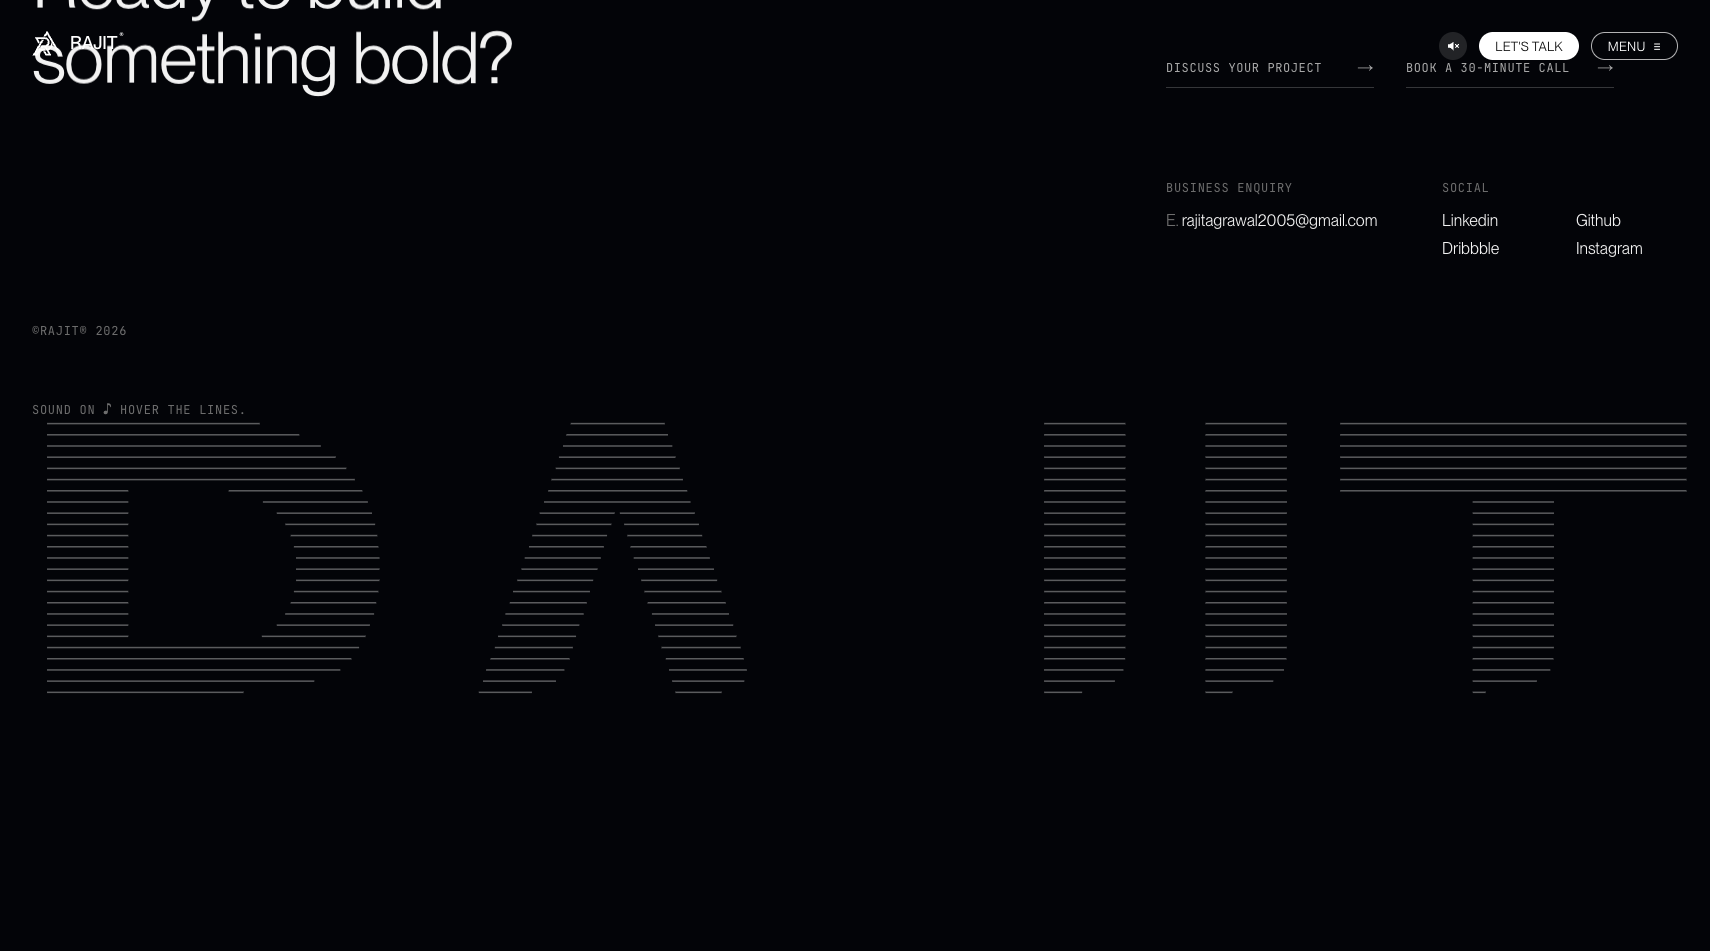
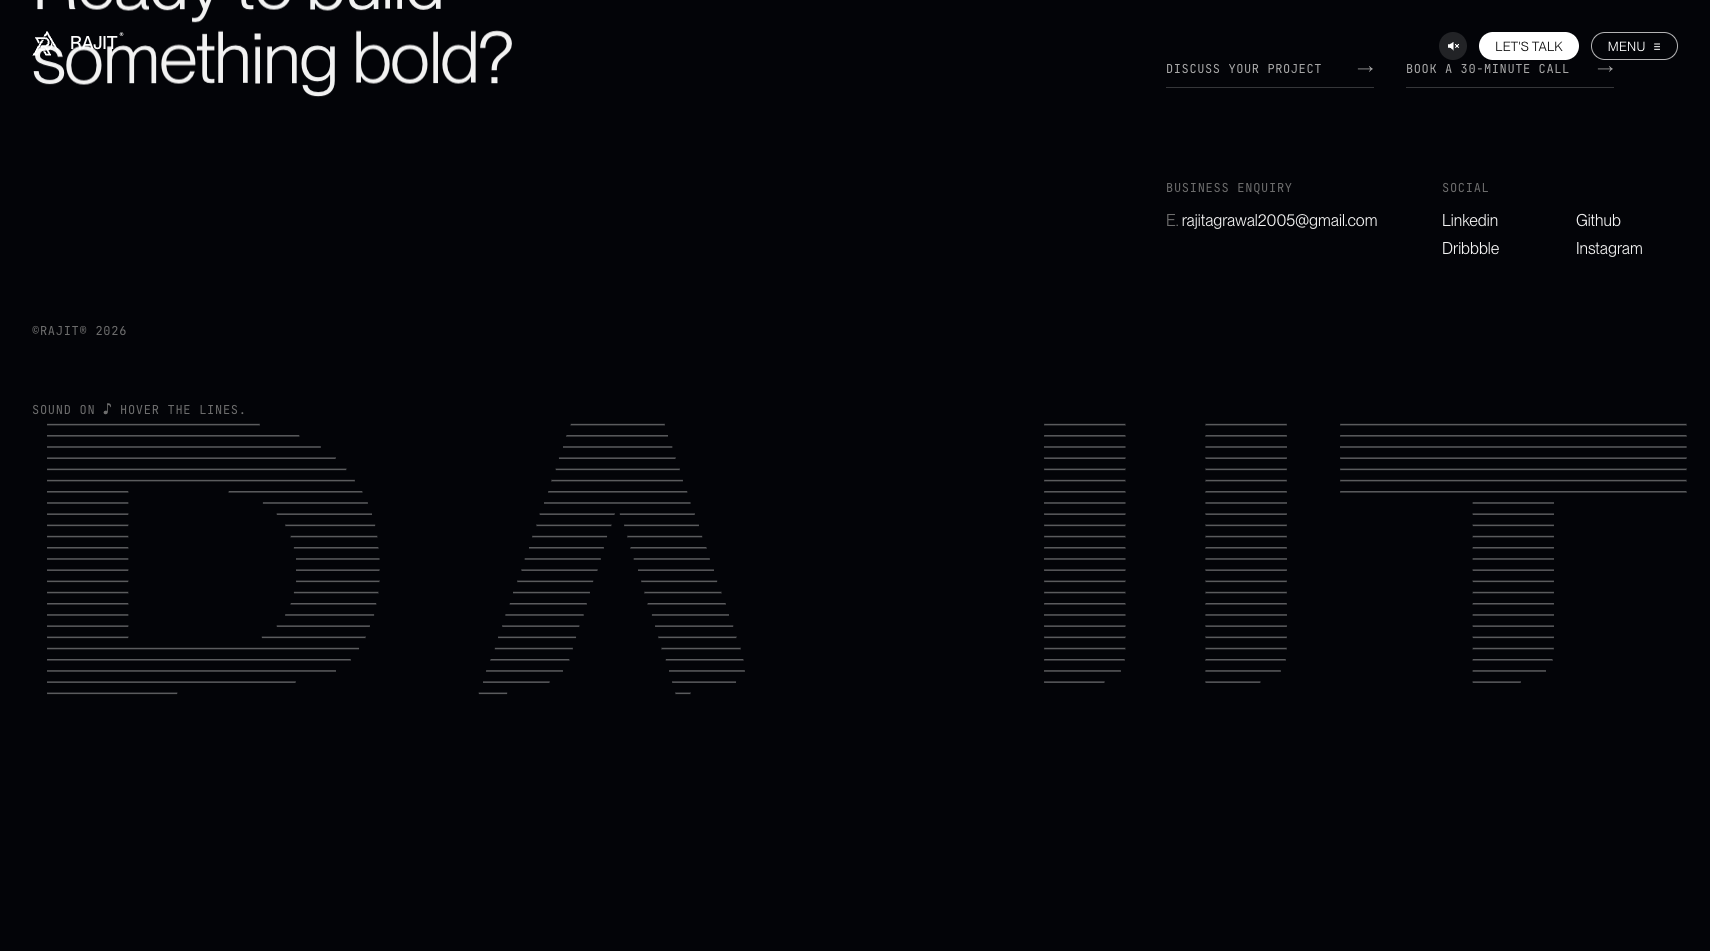
marquee: give the band a full viewport so the words cross the mark
PAGES §03 measures the label at y 125, the band centred at y 465 and the
caption at y 785 -- geometry that only lands inside a 951px viewport. The
section was min-h-[70svh] (666px), which put the band well above centre.

That matters now that the canvas is sticky and therefore always centred on
the viewport: the words were sweeping across empty sky above the mark
instead of across the mark itself, which is what frame 070 shows. At a full
viewport the label lands at y 125 exactly and the band centre at y 484
against the measured 465.

Only the dark section grows; the Key Facts chapter is untouched.

diff --git a/src/components/home/MarqueeBand.tsx b/src/components/home/MarqueeBand.tsx
@@ -7,7 +7,15 @@ import { site } from "@/data/site";
 export function MarqueeBand() {
   return (
     <ChapterSection theme="dark" className="pointer-events-auto relative overflow-hidden text-text-hi">
-      <div className="flex min-h-[70svh] flex-col justify-between py-[125px]">
+      {/*
+        A full viewport, not 70svh. PAGES §03 measures the label at y 125, the
+        band centred at y 465 and the caption at y 785 — that geometry only
+        lands inside a 951px viewport. At 70svh the band sat well above centre,
+        so it crossed empty sky instead of the mark: the canvas behind is
+        sticky and therefore always centred on the viewport, and the words only
+        sweep across it when this section is a viewport tall too.
+      */}
+      <div className="flex min-h-svh flex-col justify-between py-[125px]">
         <div className="page-x label-mono text-text-mid lg:pl-[139px]">
           {site.marquee.labelHome.map((l) => (
             <p key={l}>{l}</p>
